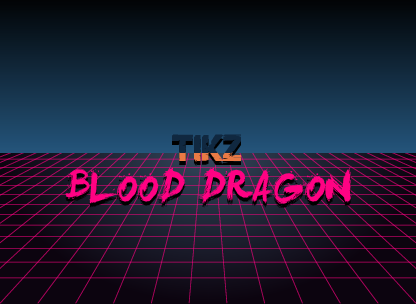
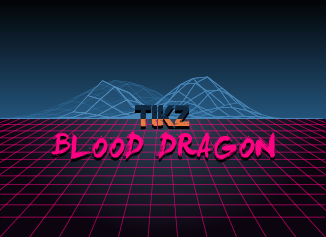
Updates

Changed region(s): [[0.0, 0.3249, 1.0, 1.0], [0.9816, 0.9747, 1.0, 1.0], [0.8896, 0.9747, 0.9202, 1.0]]

diff --git a/wiki/programming/procedural/tikz/index.html b/wiki/programming/procedural/tikz/index.html
@@ -1,7 +1,7 @@
 <!DOCTYPE html>
 <html lang="en">
 <head>
-<!-- 2018-11-29 Thu 01:04 -->
+<!-- 2019-09-02 Mon 00:51 -->
 <meta charset="utf-8">
 <meta name="viewport" content="width=device-width, initial-scale=1">
 <title>TikZ</title>
@@ -159,6 +159,19 @@
   .footdef  { margin-bottom: 1em; }
   .figure { padding: 1em; }
   .figure p { text-align: center; }
+  .equation-container {
+    display: table;
+    text-align: center;
+    width: 100%;
+  }
+  .equation {
+    vertical-align: middle;
+  }
+  .equation-label {
+    display: table-cell;
+    text-align: right;
+    vertical-align: middle;
+  }
   .inlinetask {
     padding: 10px;
     border: 2px solid gray;
@@ -213,7 +226,7 @@
 @licstart  The following is the entire license notice for the
 JavaScript code in this tag.
 
-Copyright (C) 2012-2018 Free Software Foundation, Inc.
+Copyright (C) 2012-2019 Free Software Foundation, Inc.
 
 The JavaScript code in this tag is free software: you can
 redistribute it and/or modify it under the terms of the GNU
@@ -258,48 +271,69 @@ for the JavaScript code in this tag.
 <body>
 <div id="preamble" class="status">
 <header>
-                                <div class='site-title'>
-                                  <a href='/'>
-                                    <img src='/assets/images/avatar32.png'>
-                                  </a>
-                                </div>
-                                <div class='site-nav'>
-                                  <a class='' href='/'> blog</a>
-                                  <a class='' href='/journal'> journal</a>
-                                  <a class='' href='/log'> log</a>
-                                  <a class='active' href='/wiki'> wiki</a>
-                                  <a href='/about'> about</a>
-                                </div>
-                                <div class='clearfix'></div>
-                              </header>
+  <div class='site-title'>
+    <a href='/'>
+      <img src='/assets/images/avatar32.png'>
+    </a>
+  </div>
+  <div class='site-nav'>
+    <a  href='/'> blog</a>
+    <a  href='/journal'> journal</a>
+    <a  href='/log'> log</a>
+    <a class='active' href='/wiki'> wiki</a>
+    <a href='/about'> about</a>
+  </div>
+  <div class='clearfix'></div>
+</header>
 
-                              <div class='page-header'>
-                                <div class='page-meta'>Last modified:  2018-11-29 Thu 01:00</div>
-                                <h1>TikZ</h1>
-                              </div>
+<div class='page-header'>
+  <div class='page-meta'>Last modified:  2019-09-02 Mon 00:51</div>
+  <h1>TikZ</h1>
+</div>
 </div>
 <div id="content">
 <div id='breadcrumbs'><a href='./../../../index.html'>≡ index</a> / <a href='../../../programming/index.html'>programming</a> / <a href='../../procedural/index.html'>procedural</a> / tikz</div>
-<blockquote>
+<div id='crosslinks'></div>
 <p>
-This page is a work in progress
+A few TikZ based drawings based on patchy understanding of its inner working.
+Nothing really nice or presentable. I just want to learn TikZ more.
 </p>
-</blockquote>
+
+<p>
+<a href="http://ctan.imsc.res.in/graphics/pgf/base/doc/pgfmanual.pdf">TikZ manual</a>.
+</p>
 
 <div class="org-src-container">
 <pre class="src src-latex"><span class="org-font-latex-sedate">\definecolor</span>{fpink}{RGB}{255, 2, 131}
 <span class="org-font-latex-sedate">\definecolor</span>{fblue}{RGB}{52, 121, 176}
 <span class="org-font-latex-sedate">\definecolor</span>{fback}{RGB}{16, 40, 64}
 <span class="org-font-latex-sedate">\definecolor</span>{fdark}{RGB}{12, 4, 15}
+<span class="org-font-latex-sedate">\definecolor</span>{fbluedark}{RGB}{35, 83, 119}
 <span class="org-font-latex-sedate">\definecolor</span>{forange}{RGB}{233, 122, 69}
 <span class="org-font-latex-sedate">\immediate\write18</span>{yes | cp -r ./fonts /tmp}
 <span class="org-font-latex-sedate">\newfontfamily\stfont</span>{LeviBrush}[Path = /tmp/fonts/]
 <span class="org-font-latex-sedate">\newfontfamily\fcfont</span>{FarCry}[Path = /tmp/fonts/]
 
+<span class="org-font-latex-sedate">\pgfplotsset</span>{ticks=none}
+<span class="org-font-latex-sedate">\pgfplotsset</span>{<span class="org-comment">%</span>
+  colormap={blackblue}{color(0cm)=(fblue!!20!!black);
+  color(1cm)=(fblue!!80!!white)}
+}
 <span class="org-font-latex-sedate"><span class="org-keyword">\begin</span></span>{<span class="org-function-name">center</span>}
-<span class="org-font-latex-sedate"><span class="org-keyword">\begin</span></span>{<span class="org-function-name">tikzpicture</span>}
-<span class="org-font-latex-sedate">\path</span> (0,0) -- (11,0) -- (11,8) -- (0, 8) -- cycle;
-<span class="org-font-latex-sedate">\fill</span>[inner color=fback!85, outer color=fdark] (0,0) rectangle (11,8);
+<span class="org-font-latex-sedate"><span class="org-keyword">\begin</span></span>{<span class="org-function-name">tikzpicture</span>}[
+  declare function = {
+   normal(<span class="org-font-latex-sedate">\ma</span>,<span class="org-font-latex-sedate">\sa</span>,<span class="org-font-latex-sedate">\mb</span>,<span class="org-font-latex-sedate">\sb</span>,<span class="org-font-latex-sedate">\w</span>) =
+     <span class="org-font-latex-sedate">\w</span> * 1/(2*pi*<span class="org-font-latex-sedate">\sa*\sb</span>) * exp(-((x-<span class="org-font-latex-sedate">\ma</span>)^2/<span class="org-font-latex-sedate">\sa</span>^2 + (y-<span class="org-font-latex-sedate">\mb</span>)^2/<span class="org-font-latex-sedate">\sb</span>^2))/2;
+  }
+]
+
+<span class="org-font-latex-sedate">\coordinate</span> (BL) at (0,0);
+<span class="org-font-latex-sedate">\coordinate</span> (BR) at (11,0);
+<span class="org-font-latex-sedate">\coordinate</span> (TR) at (11,8);
+<span class="org-font-latex-sedate">\coordinate</span> (TL) at (0,8);
+
+<span class="org-font-latex-sedate">\path</span> (BL) -- (BR) -- (TR) -- (TL) -- cycle;
+<span class="org-font-latex-sedate">\fill</span>[inner color=fback!85, outer color=fdark] (BL) rectangle (TR);
 
 <span class="org-comment-delimiter">% </span><span class="org-comment">grid lines</span>
 <span class="org-font-latex-sedate"><span class="org-keyword">\begin</span></span>{<span class="org-function-name">scope</span>}
@@ -311,20 +345,34 @@ This page is a work in progress
 
 <span class="org-font-latex-sedate">\foreach</span> <span class="org-font-latex-sedate">\i</span> in {1, ..., 12}
 {
-  <span class="org-font-latex-sedate">\draw</span>[color=fpink, opacity=0.7] (<span class="org-font-latex-math">$ (0, {0.67 * pow(</span><span class="org-font-latex-sedate"><span class="org-font-latex-math">\i</span></span><span class="org-font-latex-math">, 0.7)})$</span>) -- (<span class="org-font-latex-math">$ (11, {0.67 * pow(</span><span class="org-font-latex-sedate"><span class="org-font-latex-math">\i</span></span><span class="org-font-latex-math">, 0.7)})$</span>);
+  <span class="org-font-latex-sedate">\draw</span>[color=fpink, opacity=0.7]
+    (<span class="org-font-latex-math">$ (0, {0.67 * pow(</span><span class="org-font-latex-sedate"><span class="org-font-latex-math">\i</span></span><span class="org-font-latex-math">, 0.7)})$</span>) -- (<span class="org-font-latex-math">$ (11, {0.67 * pow(</span><span class="org-font-latex-sedate"><span class="org-font-latex-math">\i</span></span><span class="org-font-latex-math">, 0.7)})$</span>);
 }
 <span class="org-font-latex-sedate"><span class="org-keyword">\end</span></span>{<span class="org-function-name">scope</span>}
 
-<span class="org-comment-delimiter">% </span><span class="org-comment">Mountains</span>
-<span class="org-font-latex-sedate">\node</span> at (0, 4) (a) {};
-<span class="org-font-latex-sedate">\node</span> at (11, 4) (b) {};
-  <span class="org-font-latex-sedate">\tikzset</span>{
-    render blur shadow/.prefix code={
-      <span class="org-font-latex-sedate">\colorlet</span>{black}{fblue}
-    }
-  }
-<span class="org-font-latex-sedate">\draw</span>[color=fblue, thick] (a) -- (b);
 <span class="org-font-latex-sedate">\shade</span>[top color=fback!10!black, bottom color=fblue!70!black] (0,4) rectangle (11,8);
+<span class="org-font-latex-sedate"><span class="org-keyword">\begin</span></span>{<span class="org-function-name">scope</span>}[yshift=4cm]
+<span class="org-font-latex-sedate"><span class="org-keyword">\begin</span></span>{<span class="org-function-name">axis</span>}[
+  colormap name  = blackblue,
+  width          = 12.5cm,
+  height         = 3.0cm,
+  view           = {-140}{0},
+  enlargelimits  = false,
+  domain         = -1:4,
+  y domain       = -1:4,
+  samples        = 13,
+  axis line style={draw=none},
+  no markers
+]
+  <span class="org-comment">% These should be automatically (randomly) generated.</span>
+  <span class="org-font-latex-sedate">\addplot3</span> [surf, draw=fblue, draw opacity=0.3, fill opacity=0.1, shader=flat]
+    {normal(1, 1.5, 3.5, 1.0, 1.5)};
+  <span class="org-font-latex-sedate">\addplot3</span> [surf, draw=fblue!85!white, fill opacity=0.1, shader=flat]
+    {normal(1, 0.7, 4, 1, 0.7)};
+  <span class="org-font-latex-sedate">\addplot3</span> [surf, draw=fblue!90!white, fill opacity=0.1, shader=flat]
+    {normal(0, 1, 2, 0.8, 0.9)};
+<span class="org-font-latex-sedate"><span class="org-keyword">\end</span></span>{<span class="org-function-name">axis</span>}
+<span class="org-font-latex-sedate"><span class="org-keyword">\end</span></span>{<span class="org-function-name">scope</span>}
 
 <span class="org-font-latex-sedate">\node</span> at (5.5, 4) {<span class="org-font-latex-sedate"><span class="org-keyword">\Huge</span></span><span class="org-type"> </span><span class="org-font-latex-sedate"><span class="org-type">\fcfont</span></span><span class="org-type"> TIKZ</span>};
 

diff --git a/wiki/programming/procedural/index.html b/wiki/programming/procedural/index.html
@@ -1,7 +1,7 @@
 <!DOCTYPE html>
 <html lang="en">
 <head>
-<!-- 2019-06-17 Mon 02:00 -->
+<!-- 2019-09-02 Mon 00:51 -->
 <meta charset="utf-8">
 <meta name="viewport" content="width=device-width, initial-scale=1">
 <title>Procedural</title>
@@ -287,12 +287,13 @@ for the JavaScript code in this tag.
 </header>
 
 <div class='page-header'>
-  <div class='page-meta'>Last modified:  2019-06-17 Mon 01:59</div>
+  <div class='page-meta'>Last modified:  2019-06-30 Sun 19:06</div>
   <h1>Procedural</h1>
 </div>
 </div>
 <div id="content">
 <div id='breadcrumbs'><a href='./../../index.html'>≡ index</a> / <a href='../../programming/index.html'>programming</a> / procedural</div>
+<div id='crosslinks'></div>
 <p>
 A few procedurally generated pieces categorized according to the tool used.
 </p>

diff --git a/wiki/programming/index.html b/wiki/programming/index.html
@@ -1,7 +1,7 @@
 <!DOCTYPE html>
 <html lang="en">
 <head>
-<!-- 2019-08-21 Wed 01:17 -->
+<!-- 2019-09-02 Mon 00:51 -->
 <meta charset="utf-8">
 <meta name="viewport" content="width=device-width, initial-scale=1">
 <title>Programming</title>

diff --git a/wiki/index.html b/wiki/index.html
@@ -1,7 +1,7 @@
 <!DOCTYPE html>
 <html lang="en">
 <head>
-<!-- 2019-08-21 Wed 01:17 -->
+<!-- 2019-09-02 Mon 00:51 -->
 <meta charset="utf-8">
 <meta name="viewport" content="width=device-width, initial-scale=1">
 <title>Wiki</title>
